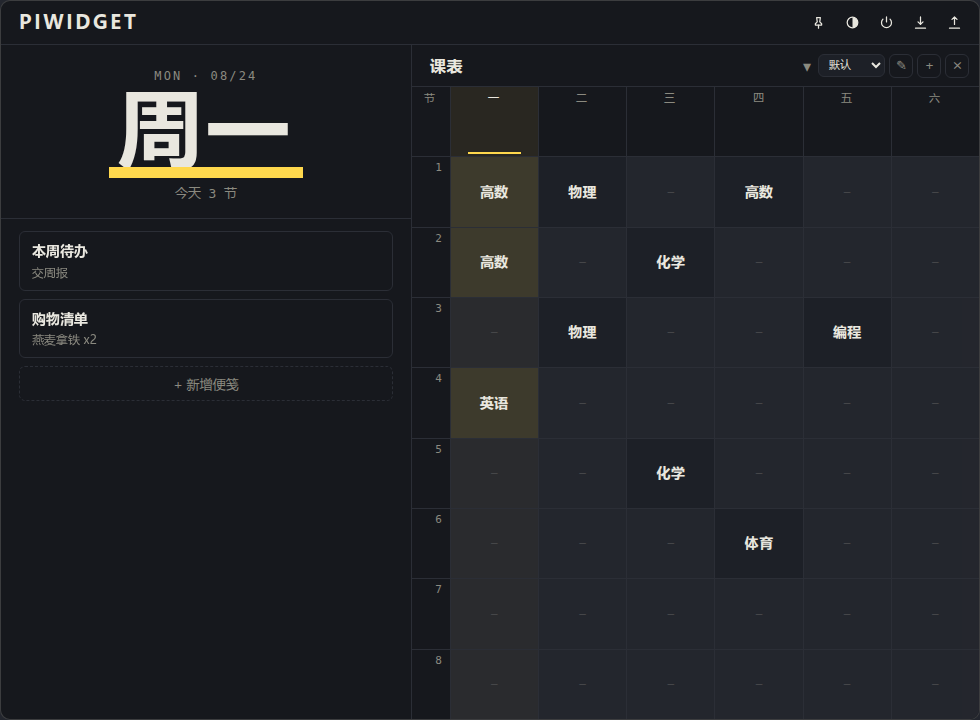
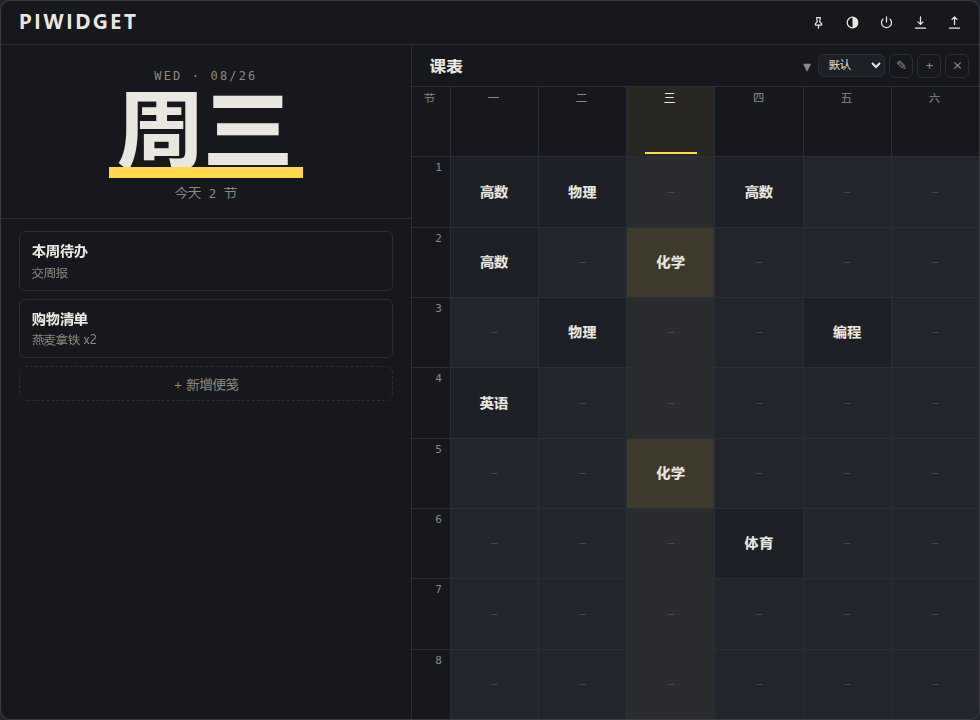
fix clock

diff --git a/src/store/useStore.js b/src/store/useStore.js
@@ -362,6 +362,19 @@ async function togglePin() {
 
 // ---------- 窗口位置 / 展开尺寸（仅 Tauri；物理像素；导入时清空） ----------
 
+/** 轮询等待窗口实际尺寸到达目标（容差 ±2 物理 px），超时告警：用于定位 resize 失效 / 被 minWidth clamp */
+async function waitForOuterSize(win, target, label) {
+  const tol = 2;
+  for (let i = 0; i < 12; i++) {
+    const cur = await win.outerSize();
+    if (Math.abs(cur.width - target.w) <= tol && Math.abs(cur.height - target.h) <= tol) return true;
+    await new Promise((r) => setTimeout(r, 50));
+  }
+  const cur = await win.outerSize();
+  console.warn(`[window] ${label} 未达目标：期望 ${target.w}×${target.h}，实际 ${cur.width}×${cur.height}`);
+  return false;
+}
+
 /**
  * 启动时恢复窗口尺寸 + 位置，并注册移动/缩放监听（持久化走现有 deep watch → saveSoon）。
  * 位置仅在与任一屏幕相交时恢复（防拔显示器 / 分辨率变化后落到屏外）。
@@ -376,6 +389,7 @@ async function restoreWindowState() {
     const pos = state.windowPos;
     if (size && size.w > 0 && size.h > 0) {
       await win.setSize(new PhysicalSize(size.w, size.h));
+      await waitForOuterSize(win, size, 'restore');
     }
     if (pos && Number.isFinite(pos.x) && Number.isFinite(pos.y)) {
       const scale = await win.scaleFactor();
@@ -397,11 +411,11 @@ async function restoreWindowState() {
     win.onResized(({ payload }) => {
       // 收起态手动拖宽不污染展开尺寸（高度跟随）
       state.windowSize = state.timetableCollapsed
-        ? { w: state.windowSize?.w ?? payload.w, h: payload.h }
-        : { w: payload.w, h: payload.h };
+        ? { w: state.windowSize?.w ?? payload.width, h: payload.height }
+        : { w: payload.width, h: payload.height };
     });
-  } catch {
-    /* 忽略：窗口状态恢复失败不影响主流程 */
+  } catch (e) {
+    console.warn('[window] 窗口状态恢复失败：', e);
   }
 }
 
@@ -410,9 +424,29 @@ async function restoreWindowState() {
  * 收起目标宽 = (当前展开宽 − 2px sheet 边框) × 0.42 + 2，
  * 0.42 对应 App.vue 的 42fr/58fr 双栏网格 —— 改网格比例须同步此系数。
  * 收起态临时放宽 minWidth（560 → 200：最小展开宽 560 → 收起目标 ≈ 236）。
+ * last-wins 串行化：快速连点只按最终状态执行一次窗口调整。
  */
+let resizeBusy = false;
+let resizeQueued = false;
+
 async function applyTimetableResize() {
   if (!isTauri) return;
+  if (resizeBusy) {
+    resizeQueued = true;
+    return;
+  }
+  resizeBusy = true;
+  try {
+    do {
+      resizeQueued = false;
+      await applyTimetableResizeOnce();
+    } while (resizeQueued);
+  } finally {
+    resizeBusy = false;
+  }
+}
+
+async function applyTimetableResizeOnce() {
   try {
     const { getCurrentWindow } = await import('@tauri-apps/api/window');
     const { PhysicalSize } = await import('@tauri-apps/api/dpi');
@@ -424,15 +458,17 @@ async function applyTimetableResize() {
       const minW = Math.round(200 * scale);
       await win.setMinSize(new PhysicalSize(minW, Math.round(360 * scale)));
       await win.setSize(new PhysicalSize(Math.max(targetW, minW), cur.height));
+      await waitForOuterSize(win, { w: Math.max(targetW, minW), h: cur.height }, '收起收缩');
     } else {
       const s = state.windowSize;
       const w = s?.w ?? Math.round(760 * scale);
       const h = s?.h ?? Math.round(540 * scale);
       await win.setSize(new PhysicalSize(w, h));
       await win.setMinSize(new PhysicalSize(Math.round(560 * scale), Math.round(360 * scale)));
+      await waitForOuterSize(win, { w, h }, '展开恢复');
     }
-  } catch {
-    /* 忽略 */
+  } catch (e) {
+    console.warn('[window] 课表窗口尺寸调整失败：', e);
   }
 }
 

diff --git a/src/components/Hero.vue b/src/components/Hero.vue
@@ -1,19 +1,13 @@
 <script setup>
-import { computed, onMounted, onBeforeUnmount, ref } from 'vue';
+import { computed } from 'vue';
 import { useStore } from '../store/useStore';
+import { now } from '../utils/clock';
 
 const { activeTimetable } = useStore();
 
 const WEEK_EN = ['SUN', 'MON', 'TUE', 'WED', 'THU', 'FRI', 'SAT'];
 const WEEK_CN = ['周日', '周一', '周二', '周三', '周四', '周五', '周六'];
 const pad2 = (n) => String(n).padStart(2, '0');
-
-const now = ref(new Date());
-let timer = null;
-onMounted(() => {
-  timer = setInterval(() => (now.value = new Date()), 30000);
-});
-onBeforeUnmount(() => clearInterval(timer));
 
 const eyebrow = computed(
   () => `${WEEK_EN[now.value.getDay()]} · ${pad2(now.value.getMonth() + 1)}/${pad2(now.value.getDate())}`

diff --git a/src/components/Timetable.vue b/src/components/Timetable.vue
@@ -1,6 +1,7 @@
 <script setup>
 import { computed, nextTick, ref, watch } from 'vue';
 import { useStore } from '../store/useStore';
+import { now } from '../utils/clock';
 
 const {
   state,
@@ -18,7 +19,7 @@ const PERIODS = Array.from({ length: 8 }, (_, i) => i + 1);
 const DAY_NUMS = [1, 2, 3, 4, 5, 6];
 
 const today = computed(() => {
-  const d = new Date().getDay();
+  const d = now.value.getDay();
   return d === 0 ? null : d;
 });
 

diff --git a/src/utils/clock.js b/src/utils/clock.js
@@ -1,0 +1,5 @@
+import { ref } from 'vue';
+
+export const now = ref(new Date());
+const timer = setInterval(() => (now.value = new Date()), 30000);
+if (import.meta.hot) import.meta.hot.dispose(() => clearInterval(timer));
